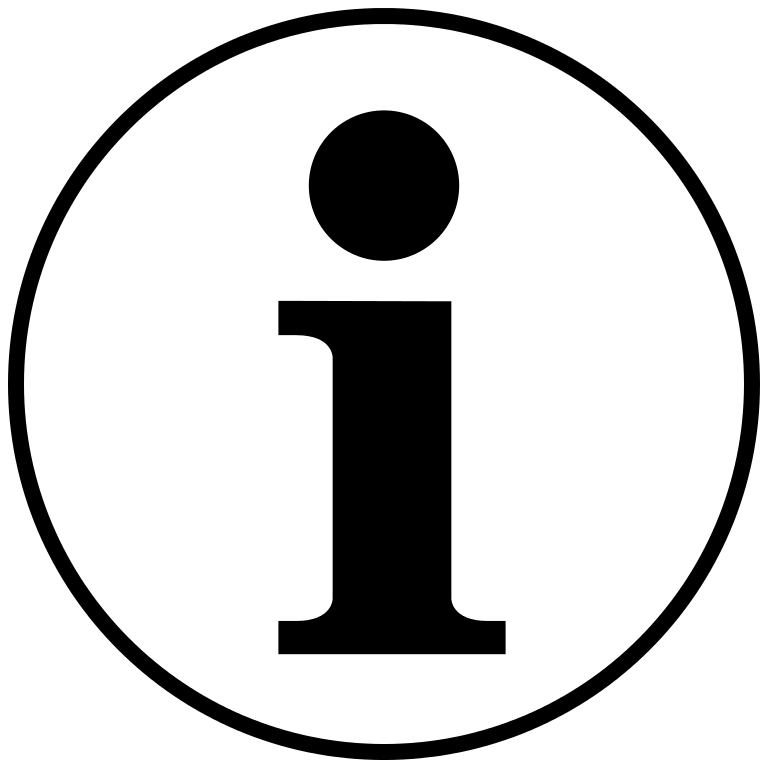
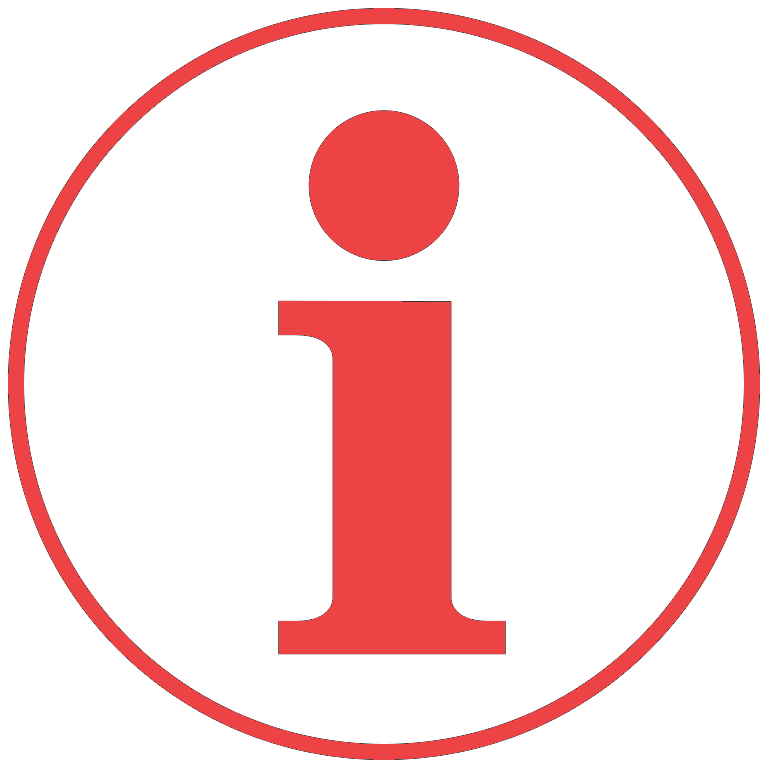
adicionei um fundo adequado e cores temas

Changed region(s): [[0.0, 0.0, 1.0, 1.0], [0.3438, 0.375, 0.6562, 0.875], [0.375, 0.125, 0.625, 0.3438]]

diff --git a/index.html b/index.html
@@ -6,83 +6,37 @@
     <title>Currículo Virtual</title>
     <link rel="stylesheet" href="index.css">
 </head>
-<body style="background-color: aquamarine;">
-    <header>
-        <h1 style="text-align:center;">Felipe Valentim Vervier</h1>
-    <center><img width="300px" src="./media/foto_do_meliante.png" alt="jb"></center>
-    </header>
-    <div id="quem_e">
-        <code><h2 style="text-align:center;"><img width="20px" src="./media/info.png" alt="info_icon"></img>  Quem é Felipe Vervier?</h2></code>
-    </div>
-    <div id="desc">
-        <ul>
-            <h3>Felipe Vervier é um estudante de Ciência da Computação. Evidências de seu infindável conhecimento na área infelizmente ainda não existem. Felipe busca estágio na área e possui amplo interesse nas áreas de:</h3>
-            <h3>Redes  |  Infosec  |  Pentest</h3>
-        </ul>
-    </div>
-    <div id="socialmedia">
-        <center><h3>===========================</h3>
-            <code><h2>° Redes Sociais °</h2></code>
-            <a target="_blank" href="https://www.instagram.com/felipe_vervier/"><img width="80" src="./media/insta icon.webp" alt="Instagram_icon"></a>
-            <a target="_blank" href="mailto:felipevervier@gmail.com"><img width="80" src="./media/mailto.png" alt="Email_icon"></a>
-            <a target="_blank" href="https://github.com/7Monk"><img width="80" src="./media/github_icon.png" alt="Github_icon"></a>
-            <h3>===========================</h3></center>
-    </div>
-    <section class="setinha">
-    <h2 for="professional"><code>Alguns profissionais da área que aprovam meus conhecimentos</code></h2>
-    <div id="seta">
-        <img src="./media/seta.png" >
-    </div>
-    </section>
-    <br>
-    <div id="peopleinarea">
-            <div id="kevin">
-                <a target="_blank" href="https://pt.wikipedia.org/wiki/Kevin_Mitnick"><h3><img src="./media/kevinmitnick.jpg" width="427" alt="kevinmitnick"></h3></a>
-                <h2 id="fotounica">Kevin Mitnick (f)</h2>
+<header>
+    <h1 style="text-align:center;">Felipe Valentim Vervier</h1>
+<center><img src="./media/foto_do_meliante.png" alt="jb"></center>
+</header>
+<body>
+    <div id="sim">
+        <div class="dl">
+            <div id="quem_e">
+                <h2><img src="./media/info.png" alt="info_icon"></img>  Quem é Felipe Vervier?</h2>
             </div>
-            <div id="prado">
-            <br>
-            <a target="_blank" href="https://br.linkedin.com/in/felipeprado" ><img width="300" src="./media/felipeprado.jpeg" alt="felipeprado"></h3></a>
-            <h2>Felipe Prado</h>
+            <div id="desc">
+                <ul>
+                    <h3>Felipe Vervier é um estudante de Ciência da Computação. Estudante da Linguagem Go, Entusiasta de CyberSegurança e Interessado em aprender e melhorar. Felipe busca estágio na área e possui amplo interesse nas áreas de:</h3>
+                    <li>Desenvolvimento em Go</li>
+                    <li>Análise e Implementação de Redes</li>
+                    <li></li>
+                    <li></li>
+                </ul>
             </div>
+        </div>
+        <div class="dl">
+            <div id="socialmedia">
+                    <center><h3>===============================</h3>
+                    <h2>° Redes Sociais °</h2>
+                    <a target="_blank" href="https://www.instagram.com/felipe_vervier/"><img  src="./media/insta-icon.png" alt="Instagram_icon"></a>
+                    <a target="_blank" href="mailto:felipevervier@gmail.com"><img  src="./media/mailto.png" alt="Email_icon"></a>
+                    <a target="_blank" href="https://github.com/7Monk"><img  src="./media/github_icon.png" alt="Github_icon"></a>
+                    <h3>===============================</h3></center>
+            </div>
+        </div>
     </div>
-    <div id="form">
-        <h3>A área embaixo se encontra em construção...</h3>
-    <form action="" method="get">
-        <label for="email">E-mail:</label>
-        <input type="text" name="email">
-        <input type="submit"><br>
-        <label for="checkbox">Menor de 18 anos</label>
-        <input type="checkbox">
-        <label for="checkbox">Maior de 18 anos</label>
-        <input type="checkbox"><br>
-        <label for="color">Cor Preferida: </label>
-        <input type="color" name="colorchecker" id="favcolor">
-    </form>
-    </div>
-   <div id="table">
-    <table border=2 style="background-color: #54eaff ;">
-        <thead>
-            <th>Nome</th>
-            <th>E-Mail</th>
-            <th>Senha</th>
-        </thead>
-        <tbody>
-            <td>Felipe</td>
-            <td>felipe@gmail.com</td>
-            <td>senhasegura</td>
-        </tbody>
-        <tbody>
-            <td>Otávio</td>
-            <td>otaviolube@gmail.com</td>
-            <td>%¨@!_#$°!@""</td>
-        </tbody>
-        <tfoot style="background-color: #008bff;">
-            <tr>
-                <td colspan="4">@felipe_vervier</td>
-            </tr>
-        </tfoot>
-    </table>
    </div>
 </body>
 </html>

diff --git a/index.css b/index.css
@@ -1,93 +1,82 @@
 * {
     padding: 0px;
-    margin: 0px;
+    margin: 5px;
     box-sizing: border-box;
 }
 
+body {
+    color: rgba(252, 180, 167, 0.841);
+    background-image: url("./media/back\ geral\ gif.gif"); background-size: cover;
+    font-family:fantasy;
+}
+
 header {
+    margin-top: 3%;
     display: flex;
     align-items: center;
     justify-content: space-around;
     padding: 30px;
-    background-image:url(./media/pato_banner.jpg); background-repeat: no-repeat; background-size: 100%;
+    
+    
 }
 
 header img {
-    border-radius: 40%;
-    object-position: top;
-
+    border-radius: 44%;
+    border-color: rgb(157, 26, 37);
+    width: 80%;
 }
 
 header h1 {
-    font-size: 50px;
-    background-color: yellow; border-radius: 12px;
+    font-size: 85px;
+    background-color: rgba(134, 42, 42, 0.902); border-radius: 12px; border-style:groove; border-color: rgba(255, 56, 56, 0.965);
     font-style:inherit;
-    font-family: 'Trebuchet MS', 'Lucida Sans Unicode', 'Lucida Grande', 'Lucida Sans', Arial, sans-serif;
+    font-family:Georgia, 'Times New Roman', Times, serif;
     font-weight: 2000;
     font-kerning: auto;
 }
 
-div#quem_e {
-    font-size: 20px;
+#quem_e {
+    font-size: 400%;
+    text-align: center;
 }
 
-div#quem_e img {
+#quem_e img {
     position: relative;
-    top: 5;
-    width: 30px;
+    width: 4%;
     align-items: center;
 }
 
-div#desc {
-    margin-top: 8px;
-    font-size: large;
-    text-align: center;
-    text-indent: 20px;
-    margin-bottom: 18px;
-}
-
-div#socialmedia {
-    margin-top: 30px;
-    background-color: antiquewhite;
-    margin-left: 30%;
-    margin-right: 30%;
-    border-radius: 44px;
-    border-style: double;
-    margin-bottom: 30px;
-}
-
-div#peopleinarea {
+#desc ul {
+    font-size: 28px;
     align-items: center;
-    align-content: space-between;
+    justify-content: center;
     text-align: center;
-    display: flex;
-    justify-content: space-around;
+    display: inline-block;
 }
 
-div#peopleinarea h2{
-    margin-block-start: 5px;
-}
-
-#kevin{
-    margin-top: 35px;
-}
-
-
-*[for="professional"] {
+#desc h3 {
+    font-size: 36;
     text-align: center;
 }
 
-#seta {
-    justify-content: space-between;
+#socialmedia {
+    height: 100%;
+    width: 100%;
     display: flex;
     align-items: center;
     justify-content: center;
 }
 
-#seta img {
-    width: 90px;
+#socialmedia img {
+    width: 180;
+    justify-content: space-between;
 }
 
-div#form h3{
-    margin-top: 50px;
+#socialmedia h2, #socialmedia h3 {
+    font-size: 410%;
+}
+
+
+#socialmedia .dl {
+    background-image: url("./media/back\ social\ media\ gif.gif");
 }
